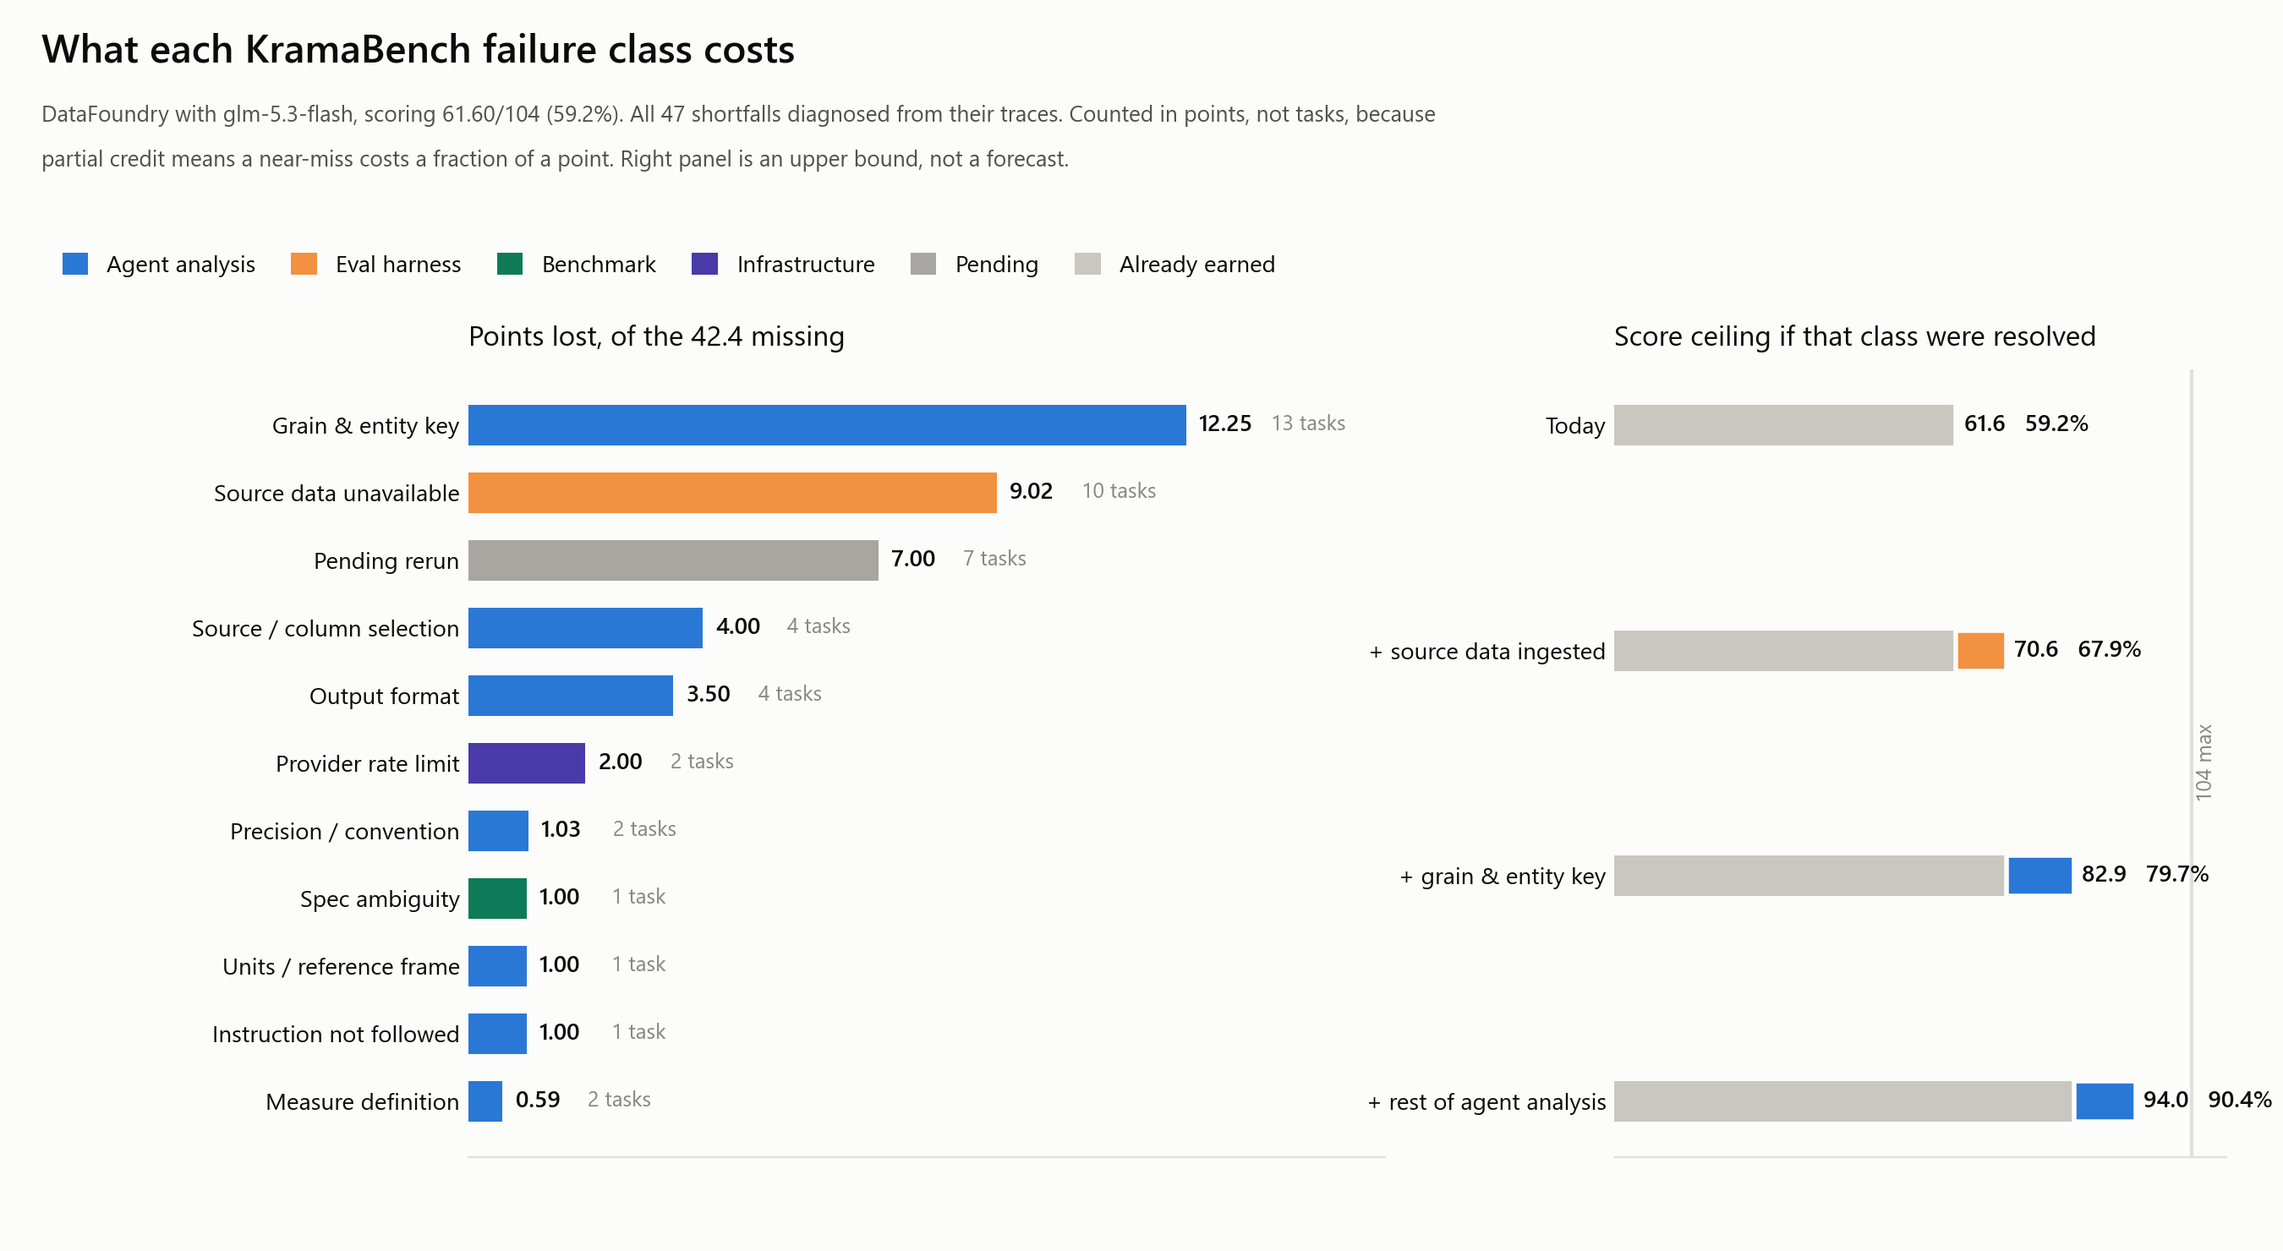
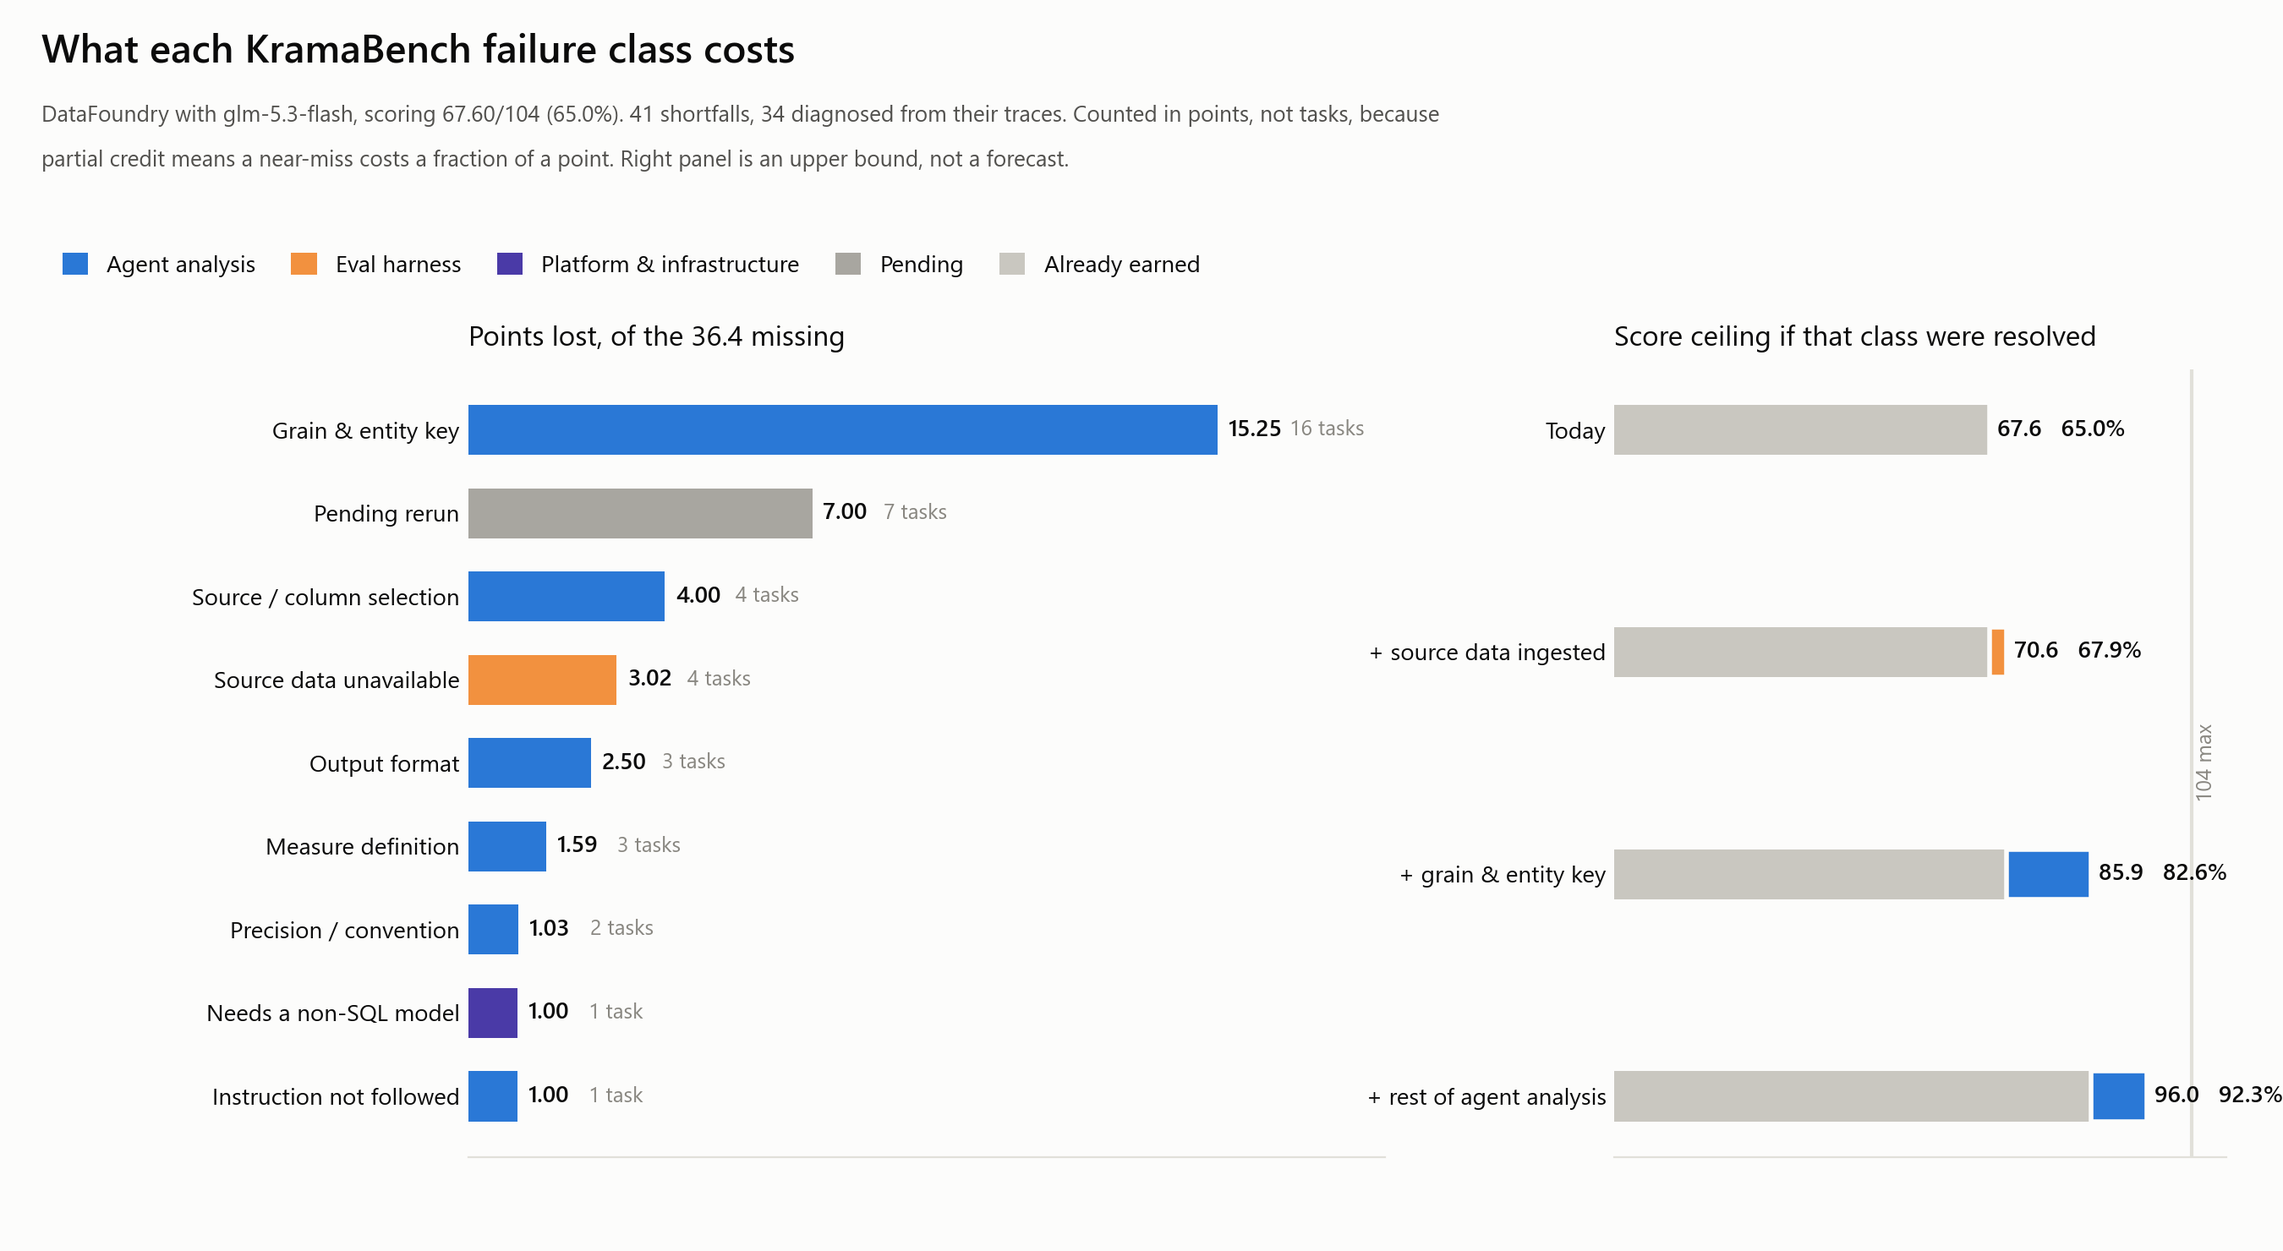
docs: add diagrams for failures

diff --git a/notes/figures/plot_domain_breakdown.py b/notes/figures/plot_domain_breakdown.py
@@ -1,0 +1,151 @@
+"""One chart per KramaBench domain: what happened to every task in it.
+
+    python notes/figures/plot_domain_breakdown.py [domain ...]   # default: biomedical archeology astronomy
+
+Writes kramabench-domain-<domain>.png. Task ids come from the KramaBench workload
+(KB_ROOT, default ~/KramaBench); failures and their reasons from
+kramabench_failure_reasons.csv, where "Grain & entity key" is shown by its
+population / grain / entity key sub-type. Any task not in the CSV is correct.
+Colours are the validated owner palette; bars are solid, hypotheses are marked *
+on the task name, and every bar names its tasks so colour is never read alone.
+"""
+
+from __future__ import annotations
+
+import csv
+import json
+import os
+import pathlib
+import sys
+
+import matplotlib
+matplotlib.use("Agg")
+import matplotlib.pyplot as plt  # noqa: E402
+from matplotlib.patches import Patch  # noqa: E402
+
+HERE = pathlib.Path(__file__).resolve().parent
+KB_ROOT = pathlib.Path(os.environ.get("KB_ROOT", pathlib.Path.home() / "KramaBench"))
+DEFAULT_DOMAINS = ["biomedical", "archeology", "astronomy"]
+
+# LLM-judge answers the local scorer gives 0 without an OpenAI key, graded correct by hand.
+HAND_GRADED = {"astronomy-easy-4", "astronomy-easy-6", "astronomy-hard-8"}
+
+SURFACE = "#fcfcfb"
+INK = "#0b0b0b"
+INK_SECOND = "#52514e"
+INK_MUTED = "#898781"
+GRID = "#e1e0d9"
+CORRECT = "#c9c7c0"
+
+# Validated: node scripts/validate_palette.js "#2a78d6,#f2913f,#0e7a57,#4a3aa7"
+#            --mode light --pairs all  -> ALL CHECKS PASS
+OWNER_COLOUR = {
+    "Agent analysis": "#2a78d6",
+    "Eval harness": "#f2913f",
+    "Benchmark": "#0e7a57",
+    "Platform & infrastructure": "#4a3aa7",
+    "Pending": "#a8a6a0",
+}
+OWNER_ORDER = list(OWNER_COLOUR)
+
+
+def short(task_id: str) -> str:
+    return task_id.split("-", 1)[1]
+
+
+def plot(domain: str, failures: dict[str, dict]) -> pathlib.Path:
+    tasks = [t["id"] for t in json.loads((KB_ROOT / "workload" / f"{domain}.json").read_text(encoding="utf-8"))]
+    correct = [t for t in tasks if t not in failures]
+
+    groups: dict[str, dict] = {}
+    for task in tasks:
+        if task not in failures:
+            continue
+        row = failures[task]
+        label = row.get("subtype") or row["reason"]
+        group = groups.setdefault(label, {"owner": row["owner"], "tasks": []})
+        group["tasks"].append(row)
+
+    # Failure bars grouped by owner, then size; "Correct" sits on top as the baseline.
+    labels = sorted(groups, key=lambda g: (OWNER_ORDER.index(groups[g]["owner"]), -len(groups[g]["tasks"]), g))
+    bars = [("Correct", CORRECT, [{"task_id": t, "subtype_evidence": "confirmed"} for t in correct])]
+    bars += [(g, OWNER_COLOUR[groups[g]["owner"]], groups[g]["tasks"]) for g in labels]
+    bars.reverse()  # barh draws bottom-up
+
+    plt.rcParams["font.family"] = ["Segoe UI", "DejaVu Sans", "sans-serif"]
+    height = 2.6 + 0.62 * len(bars)
+    figure = plt.figure(figsize=(12.5, height), facecolor=SURFACE)
+    top = 1 - 2.05 / height
+    axes = figure.add_axes([0.21, 0.35 / height, 0.36, top - 0.35 / height])
+    axes.set_facecolor(SURFACE)
+    for side in ("top", "right", "left"):
+        axes.spines[side].set_visible(False)
+    axes.spines["bottom"].set_color(GRID)
+    axes.tick_params(colors=INK_MUTED, length=0)
+    axes.set_xticks([])
+
+    most = max(len(members) for _, _, members in bars)
+    for slot, (label, colour, members) in enumerate(bars):
+        members = sorted(members, key=lambda r: (r.get("subtype_evidence") == "hypothesis",
+                                                 "hard" in r["task_id"], int(r["task_id"].rsplit("-", 1)[1])))
+        axes.barh(slot, len(members), height=0.6, color=colour, zorder=3)
+        axes.text(len(members) + 0.12, slot, str(len(members)), va="center", ha="left",
+                  fontsize=11, color=INK, fontweight="semibold")
+        names = []
+        for m in members:
+            name = short(m["task_id"])
+            if m.get("subtype_evidence") == "hypothesis":
+                name += "*"
+            if m["task_id"] in HAND_GRADED:
+                name += "†"
+            names.append(name)
+        lines = [", ".join(names[i:i + 4]) for i in range(0, len(names), 4)]
+        axes.annotate("\n".join(lines), xy=(most + 1.4, slot), va="center", ha="left",
+                      fontsize=9.5, color=INK_SECOND, annotation_clip=False)
+
+    axes.set_yticks(range(len(bars)))
+    axes.set_yticklabels([label for label, _, _ in bars], fontsize=10.5, color=INK)
+    axes.set_xlim(0, most + 1.2)
+    axes.set_ylim(-0.6, len(bars) - 0.4)
+
+    lost = sum(1.0 - float(failures[t]["score"]) for t in tasks if t in failures)
+    score = len(tasks) - lost
+    figure.text(0.018, 1 - 0.55 / height,
+                f"{domain.capitalize()}: {score:g} of {len(tasks)} points",
+                fontsize=17, color=INK, fontweight="semibold")
+    notes = [f"{len(correct)} tasks correct, {len(tasks) - len(correct)} short, grouped by the earliest decision "
+             "that, if corrected, would have produced the right answer."]
+    marks = []
+    if any(m.get("subtype_evidence") == "hypothesis" for _, _, ms in bars for m in ms):
+        marks.append("* hypothesis, not yet confirmed")
+    if any(t in HAND_GRADED for t in correct):
+        marks.append("† correct, graded by hand (the local scorer needs an LLM judge)")
+    if marks:
+        notes.append("   ".join(marks))
+    for i, line in enumerate(notes):
+        figure.text(0.018, 1 - (1.0 + 0.36 * i) / height, line, fontsize=9.5,
+                    color=INK_SECOND if i == 0 else INK_MUTED)
+
+    owners = [o for o in OWNER_ORDER if any(g["owner"] == o for g in groups.values())]
+    handles = [Patch(facecolor=CORRECT, label="Correct")] + \
+              [Patch(facecolor=OWNER_COLOUR[o], label=o) for o in owners]
+    figure.legend(handles=handles, loc="upper left", bbox_to_anchor=(0.018, 1 - 1.62 / height),
+                  ncol=len(handles), frameon=False, fontsize=10, handlelength=1.1,
+                  handleheight=1.1, columnspacing=1.4, labelcolor=INK)
+
+    out = HERE / f"kramabench-domain-{domain}.png"
+    figure.savefig(out, dpi=200, facecolor=SURFACE)
+    plt.close(figure)
+    return out
+
+
+def main() -> None:
+    domains = sys.argv[1:] or DEFAULT_DOMAINS
+    with (HERE / "kramabench_failure_reasons.csv").open(encoding="utf-8-sig") as handle:
+        failures = {row["task_id"]: row for row in csv.DictReader(handle)}
+    for domain in domains:
+        print(f"wrote {plot(domain, failures)}")
+
+
+if __name__ == "__main__":
+    main()

diff --git a/notes/figures/plot_population_grain_entity_key.py b/notes/figures/plot_population_grain_entity_key.py
@@ -1,0 +1,107 @@
+"""Break the "Grain & entity key" failure class into its three sub-types.
+
+    python notes/figures/plot_population_grain_entity_key.py
+
+Reads the subtype / subtype_evidence columns of kramabench_failure_reasons.csv and
+writes kramabench-population-grain-entity-key.png. Bars are solid; hypotheses (not
+yet reproduced, matched against the gold solution, or pinpointed in the trace) are
+marked * on the task name. Every task is named beside its bar, so colour is never
+read alone.
+"""
+
+from __future__ import annotations
+
+import csv
+import pathlib
+
+import matplotlib
+matplotlib.use("Agg")
+import matplotlib.pyplot as plt  # noqa: E402
+from matplotlib.patches import Patch  # noqa: E402
+
+HERE = pathlib.Path(__file__).resolve().parent
+
+SURFACE = "#fcfcfb"
+INK = "#0b0b0b"
+INK_SECOND = "#52514e"
+INK_MUTED = "#898781"
+GRID = "#e1e0d9"
+
+# First three slots of the validated owner palette (validate_palette.js, --pairs all: PASS).
+SUBTYPE_COLOUR = {"Population": "#2a78d6", "Grain": "#f2913f", "Entity key": "#0e7a57"}
+SUBTYPE_ORDER = ["Population", "Grain", "Entity key"]
+MEANING = {
+    "Population": "wrong set of rows included",
+    "Grain": "wrong unit a row stands for",
+    "Entity key": "one thing split or merged",
+}
+
+
+def main() -> None:
+    with (HERE / "kramabench_failure_reasons.csv").open(encoding="utf-8-sig") as handle:
+        all_rows = list(csv.DictReader(handle))
+    rows = [r for r in all_rows if r.get("subtype")]
+    missing = sum(1.0 - float(r["score"]) for r in all_rows)
+
+    plt.rcParams["font.family"] = ["Segoe UI", "DejaVu Sans", "sans-serif"]
+    figure = plt.figure(figsize=(13.5, 5.6), facecolor=SURFACE)
+    axes = figure.add_axes([0.2, 0.1, 0.34, 0.62])
+    axes.set_facecolor(SURFACE)
+    for side in ("top", "right", "left"):
+        axes.spines[side].set_visible(False)
+    axes.spines["bottom"].set_color(GRID)
+    axes.tick_params(colors=INK_MUTED, length=0)
+    axes.set_xticks([])
+
+    order = SUBTYPE_ORDER[::-1]  # barh draws bottom-up
+    most = max(sum(1 for r in rows if r["subtype"] == s) for s in order)
+    for slot, subtype in enumerate(order):
+        tasks = sorted((r for r in rows if r["subtype"] == subtype),
+                       key=lambda r: (r["subtype_evidence"] != "confirmed", r["task_id"]))
+        confirmed = [r for r in tasks if r["subtype_evidence"] == "confirmed"]
+        guessed = [r for r in tasks if r["subtype_evidence"] != "confirmed"]
+        colour = SUBTYPE_COLOUR[subtype]
+        axes.barh(slot, len(tasks), height=0.58, color=colour, zorder=3)
+        lost = sum(1.0 - float(r["score"]) for r in tasks)
+        axes.text(len(tasks) + 0.15, slot, f"{len(tasks)}", va="center", ha="left",
+                  fontsize=11, color=INK, fontweight="semibold")
+        axes.text(len(tasks) + 0.55, slot, f"{lost:.2f} pts", va="center", ha="left",
+                  fontsize=9, color=INK_MUTED)
+        # Task list, confirmed first; hypotheses marked with an asterisk.
+        names = [r["task_id"] for r in confirmed] + [f"{r['task_id']}*" for r in guessed]
+        lines = [", ".join(names[i:i + 3]) for i in range(0, len(names), 3)]
+        axes.annotate("\n".join(lines), xy=(most + 2.6, slot), xycoords="data",
+                      va="center", ha="left", fontsize=9, color=INK_SECOND, annotation_clip=False)
+
+    axes.set_yticks(range(len(order)))
+    axes.set_yticklabels([f"{s}\n{MEANING[s]}" for s in order], fontsize=10, color=INK)
+    for label in axes.get_yticklabels():
+        label.set_linespacing(1.5)
+    axes.set_xlim(0, most + 2.3)
+    axes.set_ylim(-0.6, len(order) - 0.4)
+
+    total = len(rows)
+    points = sum(1.0 - float(r["score"]) for r in rows)
+    confirmed_n = sum(1 for r in rows if r["subtype_evidence"] == "confirmed")
+    figure.text(0.018, 0.9, "Population, grain and entity key errors in KramaBench",
+                fontsize=17, color=INK, fontweight="semibold")
+    figure.text(0.018, 0.835,
+                f"{total} tasks, {points:.2f} of the {missing:.1f} points DataFoundry misses. In each, the SQL ran and the "
+                "arithmetic was right, but the rows were defined wrong before the query.",
+                fontsize=9.5, color=INK_SECOND)
+    figure.text(0.018, 0.79,
+                f"{confirmed_n} confirmed (reproduced, matched to the gold solution, or pinpointed in the trace); "
+                f"{total - confirmed_n} hypotheses, marked *.",
+                fontsize=9.5, color=INK_MUTED)
+
+    out = HERE / "kramabench-population-grain-entity-key.png"
+    figure.savefig(out, dpi=200, facecolor=SURFACE)
+    print(f"wrote {out}")
+    for subtype in SUBTYPE_ORDER:
+        tasks = [r for r in rows if r["subtype"] == subtype]
+        print(f"  {subtype:10} {len(tasks)} tasks  "
+              f"{sum(1 for r in tasks if r['subtype_evidence'] == 'confirmed')} confirmed")
+
+
+if __name__ == "__main__":
+    main()

diff --git a/notes/figures/plot_failure_reasons.py b/notes/figures/plot_failure_reasons.py
@@ -10,8 +10,8 @@ the lake loader cannot read.
 Colour encodes who owns the fix and was validated all-pairs for colour-vision
 separation (blue/orange/green/violet). "Pending rerun" is deliberately neutral
 grey: it is the absence of a diagnosis, not a category of one. Every bar carries
-its count and its own axis label, so colour never has to be read alone; hatching
-marks the six tasks this pass moved out of the category they were first filed under.
+its count and its own axis label, so colour never has to be read alone. Bars are
+solid; which tasks were reclassified is recorded in the CSV's evidence column.
 """
 
 from __future__ import annotations
@@ -27,7 +27,7 @@ from matplotlib.patches import Patch  # noqa: E402
 
 HERE = pathlib.Path(__file__).resolve().parent
 TOTAL_TASKS = 104
-SCORE = 61.60
+SCORE = 67.60  # 64.60 scored locally + 3 LLM-judge answers hand-graded correct (astronomy easy-4, easy-6, hard-8)
 
 SURFACE = "#fcfcfb"
 INK = "#0b0b0b"
@@ -41,10 +41,10 @@ OWNER_COLOUR = {
     "Agent analysis": "#2a78d6",
     "Eval harness": "#f2913f",
     "Benchmark": "#0e7a57",
-    "Infrastructure": "#4a3aa7",
+    "Platform & infrastructure": "#4a3aa7",
     "Pending": "#a8a6a0",
 }
-OWNER_ORDER = ["Agent analysis", "Eval harness", "Benchmark", "Infrastructure", "Pending"]
+OWNER_ORDER = ["Agent analysis", "Eval harness", "Benchmark", "Platform & infrastructure", "Pending"]
 DOMAIN_ORDER = ["legal", "wildfire", "biomedical", "archeology", "environment", "astronomy"]
 DOMAIN_TASKS = {"legal": 30, "wildfire": 21, "biomedical": 9,
                 "archeology": 12, "environment": 20, "astronomy": 12}
@@ -87,13 +87,9 @@ def main() -> None:
     style_axes(left)
     positions = list(range(len(reasons)))
     total = [counts[r] for r in reasons]
-    held = [counts[r] - moved[r] for r in reasons]
-    changed = [moved[r] for r in reasons]
     colours = [OWNER_COLOUR[owner_of[r]] for r in reasons]
 
-    left.barh(positions, held, height=0.62, color=colours, zorder=3)
-    left.barh(positions, changed, left=held, height=0.62, color=colours, zorder=3,
-              alpha=0.42, hatch="///", edgecolor=SURFACE, linewidth=2)
+    left.barh(positions, total, height=0.62, color=colours, zorder=3)
     left.set_yticks(positions)
     left.set_yticklabels(reasons, fontsize=10, color=INK)
     left.set_xlim(0, max(total) + 1.8)
@@ -135,8 +131,9 @@ def main() -> None:
     figure.text(0.018, 0.871,
                 "would have produced the right answer. Partial credit means a task can cost less than a whole point.",
                 fontsize=9.5, color=INK_SECOND)
+    diagnosed = sum(1 for row in rows if row["owner"] != "Pending")
     figure.text(0.018, 0.835,
-                "All 47 diagnosed from their traces. Hatched = reclassified this pass; the earlier taxonomy had it elsewhere.",
+                f"{diagnosed} diagnosed from their traces; {len(rows) - diagnosed} await a rerun or diagnosis.",
                 fontsize=9.5, color=INK_MUTED)
 
     handles = [Patch(facecolor=OWNER_COLOUR[o], label=o) for o in present_owners]

diff --git a/notes/figures/plot_failure_impact.py b/notes/figures/plot_failure_impact.py
@@ -5,7 +5,7 @@
 Writes kramabench-failure-impact.png next to the CSV. Where plot_failure_reasons.py
 counts tasks, this counts points, which reorders the picture: partial credit means
 "Measure definition" holds 2 tasks but costs 0.59 points, while "Grain & entity key"
-holds 13 and costs 12.25.
+holds 14 and costs 13.25.
 
 The right panel is an upper bound, not a forecast: it shows the score if a whole
 class were resolved perfectly, in the order the classes are cheapest to attack.
@@ -26,7 +26,7 @@ from matplotlib.patches import Patch  # noqa: E402
 
 HERE = pathlib.Path(__file__).resolve().parent
 TOTAL_TASKS = 104
-SCORE = 61.60
+SCORE = 67.60  # 64.60 scored locally + 3 LLM-judge answers hand-graded correct (astronomy easy-4, easy-6, hard-8)
 
 SURFACE = "#fcfcfb"
 INK = "#0b0b0b"
@@ -41,10 +41,10 @@ OWNER_COLOUR = {
     "Agent analysis": "#2a78d6",
     "Eval harness": "#f2913f",
     "Benchmark": "#0e7a57",
-    "Infrastructure": "#4a3aa7",
+    "Platform & infrastructure": "#4a3aa7",
     "Pending": "#a8a6a0",
 }
-OWNER_ORDER = ["Agent analysis", "Eval harness", "Benchmark", "Infrastructure", "Pending"]
+OWNER_ORDER = ["Agent analysis", "Eval harness", "Benchmark", "Platform & infrastructure", "Pending"]
 
 
 def style_axes(axes) -> None:
@@ -142,7 +142,8 @@ def main() -> None:
                 fontsize=17, color=INK, fontweight="semibold")
     figure.text(0.018, 0.903,
                 f"DataFoundry with glm-5.3-flash, scoring {SCORE:.2f}/{TOTAL_TASKS} ({100 * SCORE / TOTAL_TASKS:.1f}%). "
-                "All 47 shortfalls diagnosed from their traces. Counted in points, not tasks, because",
+                f"{len(rows)} shortfalls, {sum(1 for r in rows if r['owner'] != 'Pending')} diagnosed from their traces. "
+                "Counted in points, not tasks, because",
                 fontsize=9.5, color=INK_SECOND)
     figure.text(0.018, 0.867,
                 "partial credit means a near-miss costs a fraction of a point. Right panel is an upper bound, not a forecast.",
